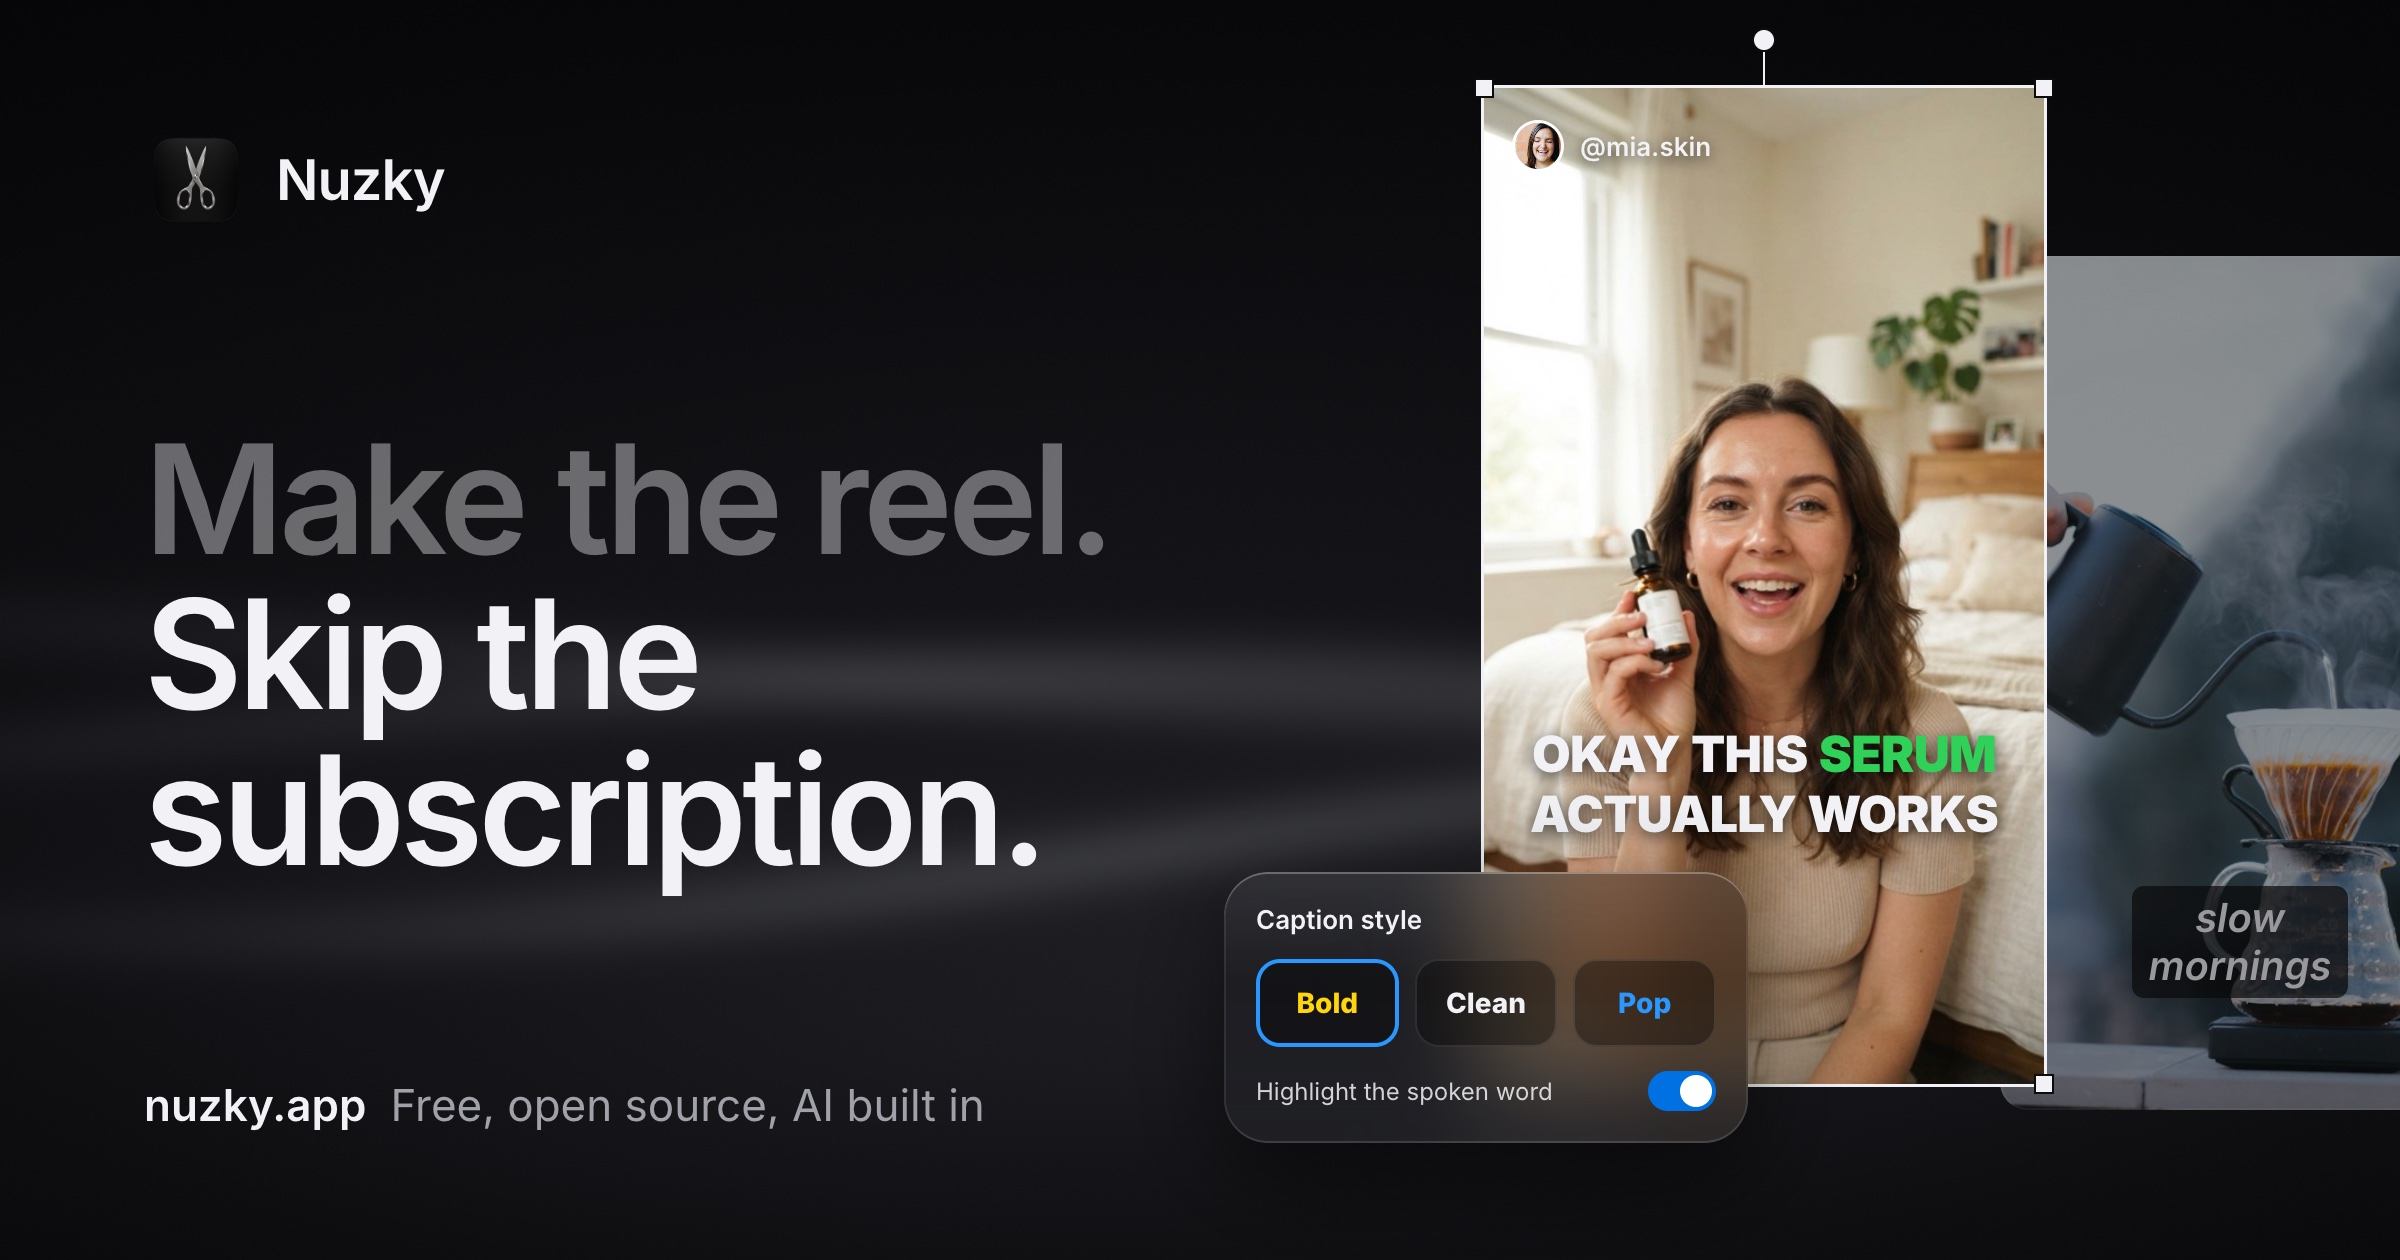
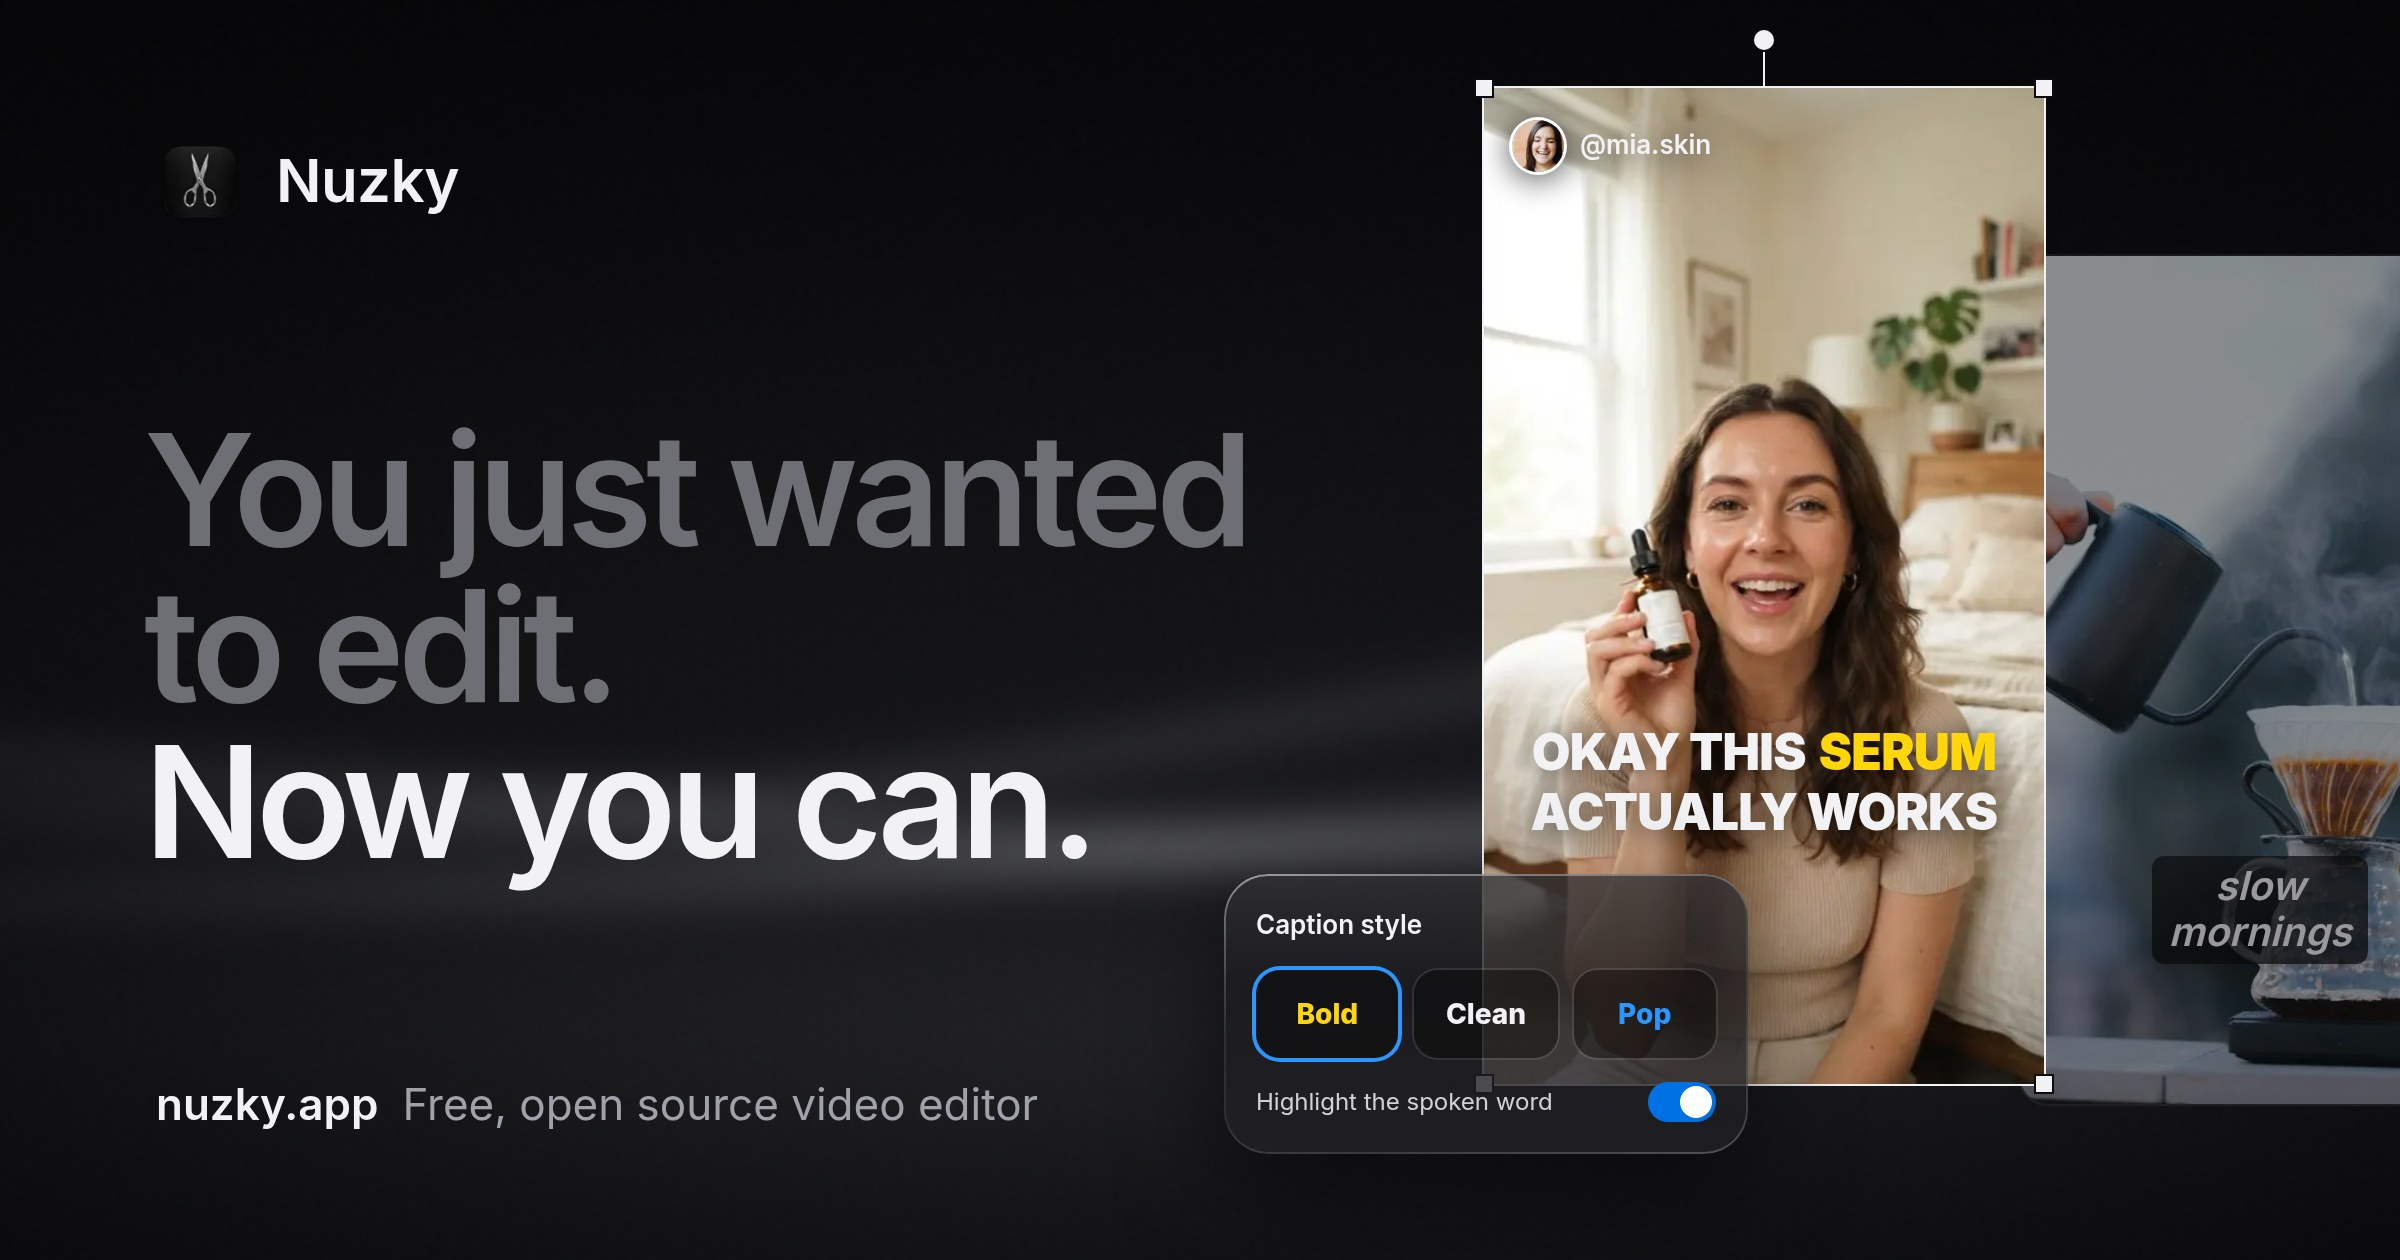
feat(site): lead with "You just wanted to edit. Now you can." on the page and the share image

diff --git a/site/components/Hero.tsx b/site/components/Hero.tsx
@@ -103,11 +103,10 @@ export function Hero() {
   return (
     <section ref={section} className="relative">
       <div className="relative z-10 flex flex-col items-center px-5 pt-16 text-center sm:pt-24">
-        {/* A notch under heading-xl, so the first sentence stays on one line from tablet width up. */}
-        <h1 className="heading-xl text-[length:clamp(2.75rem,6.6vw,5.5rem)]">
-          You just wanted to edit a{"\u00a0"}video.
+        <h1 className="heading-xl">
+          You just wanted to{"\u00a0"}edit.
           <br />
-          <span className="text-subtle">Nuzky does the boring{"\u00a0"}part.</span>
+          <span className="text-subtle">Now you can.</span>
         </h1>
         <p className="mt-7 max-w-[600px] text-[17px] text-muted sm:text-[20px]">
           A free video editor. AI writes the captions in your language and cuts out the ums, the pauses and the retakes.
@@ -216,7 +215,7 @@ export function Hero() {
 
         <div className="mt-14 flex flex-col items-center gap-3.5 sm:mt-16">
           {/* Not released yet: the email field takes the download's place until the first build ships. */}
-          <div className="flex w-full max-w-[400px] flex-col items-center gap-3 sm:max-w-none sm:flex-row sm:justify-center">
+          <div className="flex w-full max-w-[400px] flex-col items-center gap-3 sm:max-w-none sm:flex-row sm:items-start sm:justify-center">
             <NotifyForm id="notify" noteId="hero-notify-note" />
             <a href={repo} className="glass flex h-12 shrink-0 items-center gap-2 rounded-full px-[22px] text-[15px] font-semibold transition-colors hover:bg-white/10">
               <GitHubLogo className="size-[17px]" />

diff --git a/site/app/layout.tsx b/site/app/layout.tsx
@@ -10,7 +10,7 @@ const inter = Inter({ subsets: ["latin"], variable: "--font-inter", display: "sw
 const mono = JetBrains_Mono({ subsets: ["latin"], variable: "--font-mono-face", display: "swap", preload: false });
 
 // Search results show the title, which names what people search for. Shares show the slogan.
-const slogan = "Nuzky | Make the reel. Skip the subscription.";
+const slogan = "Nuzky | You just wanted to edit. Now you can.";
 
 export const metadata: Metadata = {
   metadataBase: new URL(url),
